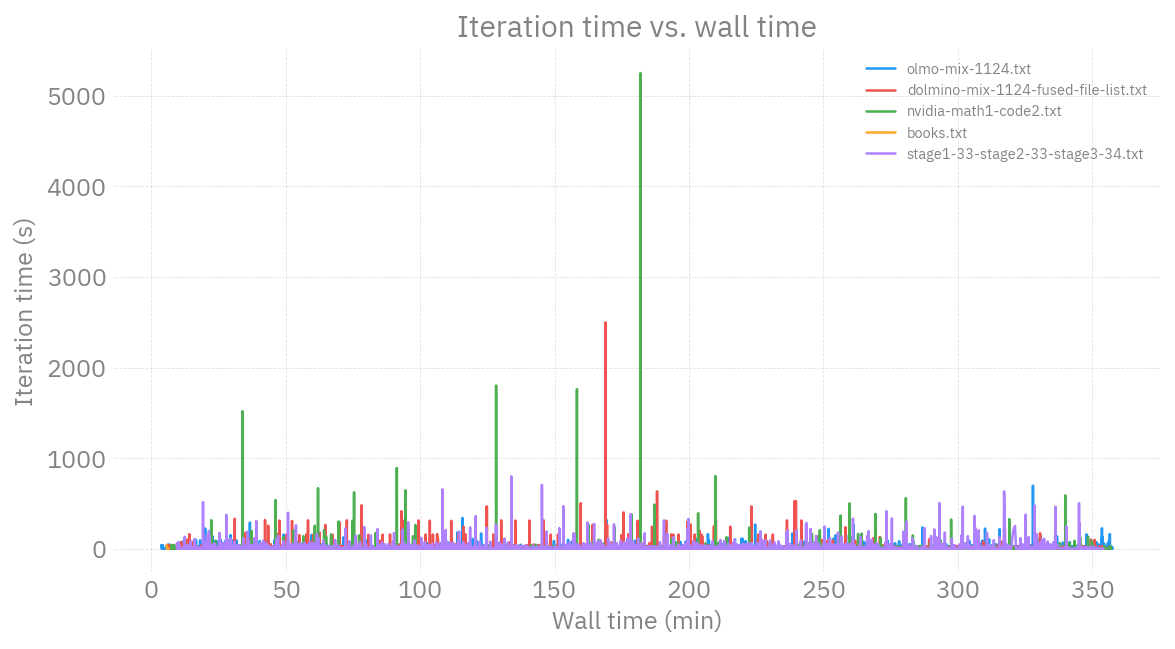
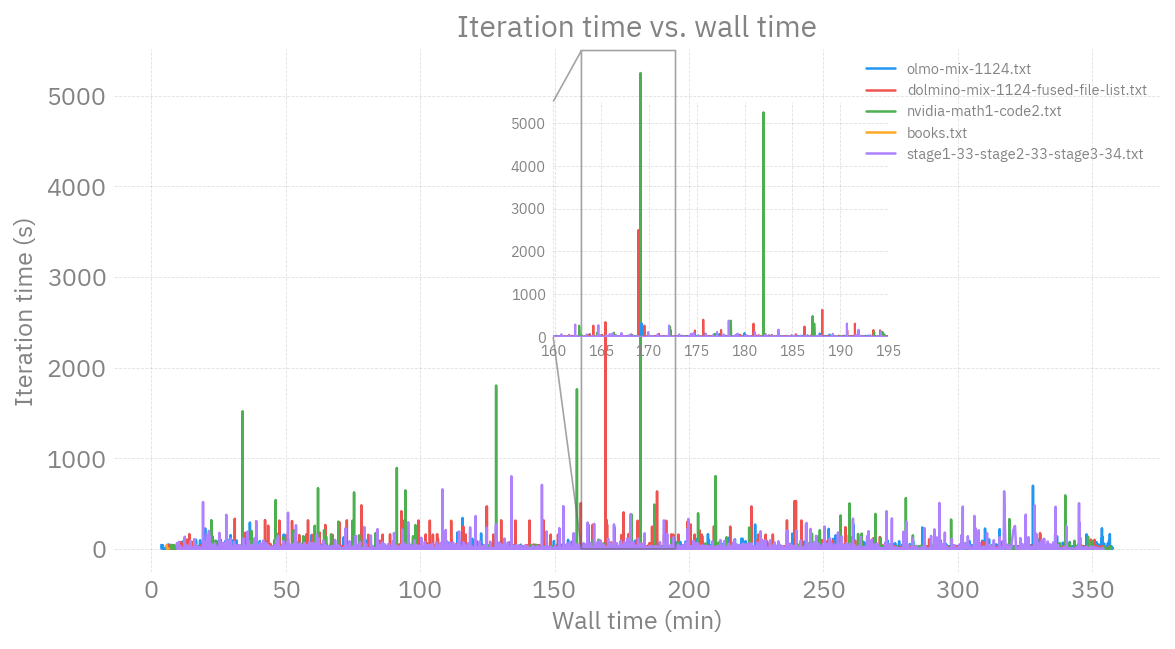
feat: Add zoomed inset to iteration-time chart
Highlights the worst-case spikes at ~170-185 min in the iteration time
vs. wall time chart. The inset is configured via an INSETS dict keyed by
output filename so additional zooms can be added the same way.

diff --git a/ALCF/AuroraGPT/2B/scripts/generate_report.py b/ALCF/AuroraGPT/2B/scripts/generate_report.py
@@ -34,6 +34,16 @@ CACHE_DIR = REPO_ROOT / "ALCF" / "AuroraGPT" / "2B" / ".cache"
 ENTITY = "aurora_gpt"
 PROJECT = "AuroraGPT"
 
+# Per-panel zoom insets keyed by filename:
+#   xlim, ylim, bounds = (left, bottom, width, height) in axes fraction
+INSETS: dict[str, dict] = {
+    "iter_time_vs_runtime": {
+        "xlim": (160, 195),
+        "ylim": (0, 5500),
+        "bounds": (0.42, 0.45, 0.32, 0.45),
+    },
+}
+
 # Same 22 filter clauses as the report.
 REPORT_FILTERS: dict[str, Any] = {
     "$and": [
@@ -203,6 +213,7 @@ def plot_panel(
 ) -> None:
     fig, ax = plt.subplots(figsize=(8, 4.5))
     drew_any = False
+    curves: list[tuple[np.ndarray, np.ndarray, str]] = []
     for gkey, runs_in_group in runs_by_group.items():
         xs: list[np.ndarray] = []
         ys: list[np.ndarray] = []
@@ -229,11 +240,10 @@ def plot_panel(
             x = x / 60.0
         if x_metric == "_timestamp":
             x = pd.to_datetime(x, unit="s")
-        # The first 5 grouping axes are constant for these runs, so the
-        # data-file-list is the only one worth showing in the legend.
         dfl = gkey[5] or "(unknown data)"
         dfl_short = Path(dfl).name if dfl else "?"
-        ax.plot(x, y, label=dfl_short, linewidth=1.2)
+        line, = ax.plot(x, y, label=dfl_short, linewidth=1.2)
+        curves.append((x, y, line.get_color()))
         drew_any = True
     if not drew_any:
         plt.close(fig)
@@ -248,6 +258,17 @@ def plot_panel(
         ax.set_yscale("log")
     if len(runs_by_group) <= 8:
         ax.legend(loc="best", fontsize=7, frameon=False)
+
+    inset_cfg = INSETS.get(fname)
+    if inset_cfg is not None:
+        axins = ax.inset_axes(inset_cfg["bounds"])
+        for x, y, color in curves:
+            axins.plot(x, y, color=color, linewidth=1.0)
+        axins.set_xlim(*inset_cfg["xlim"])
+        axins.set_ylim(*inset_cfg["ylim"])
+        axins.tick_params(labelsize=7)
+        ax.indicate_inset_zoom(axins, edgecolor="0.4", alpha=0.6, linewidth=0.8)
+
     fig.tight_layout()
     out = OUT_DIR / f"{fname}.png"
     OUT_DIR.mkdir(parents=True, exist_ok=True)
